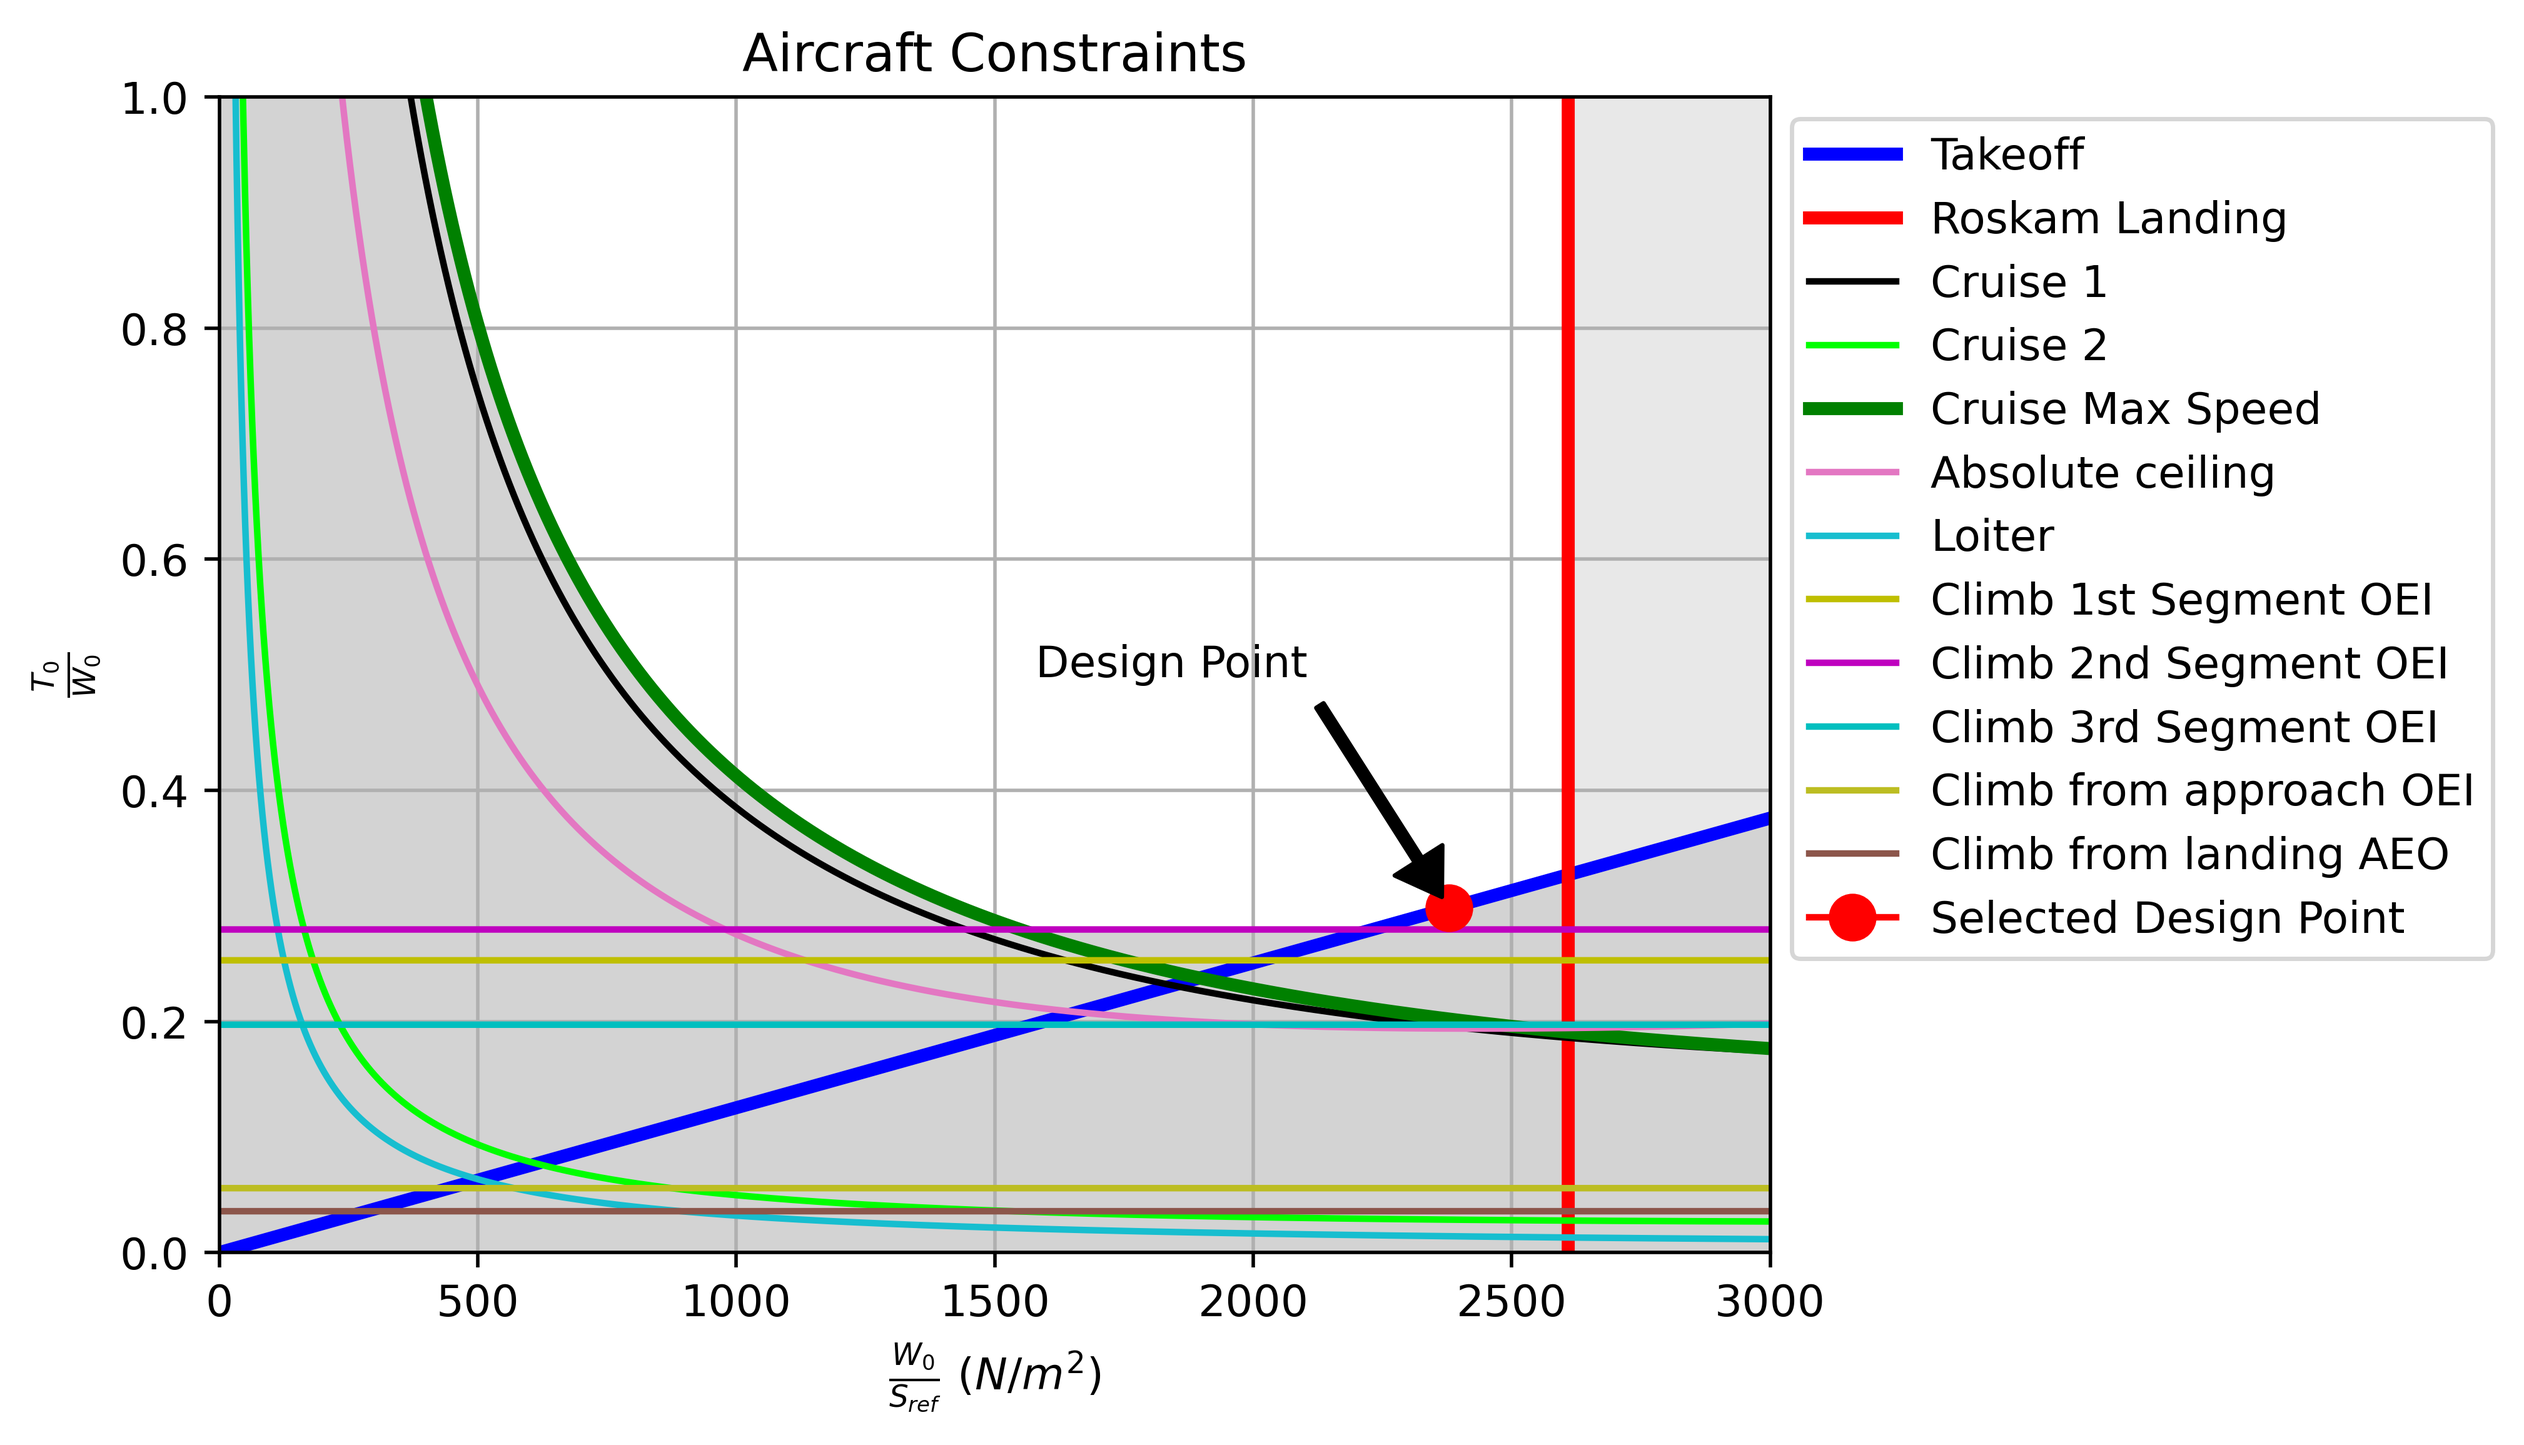
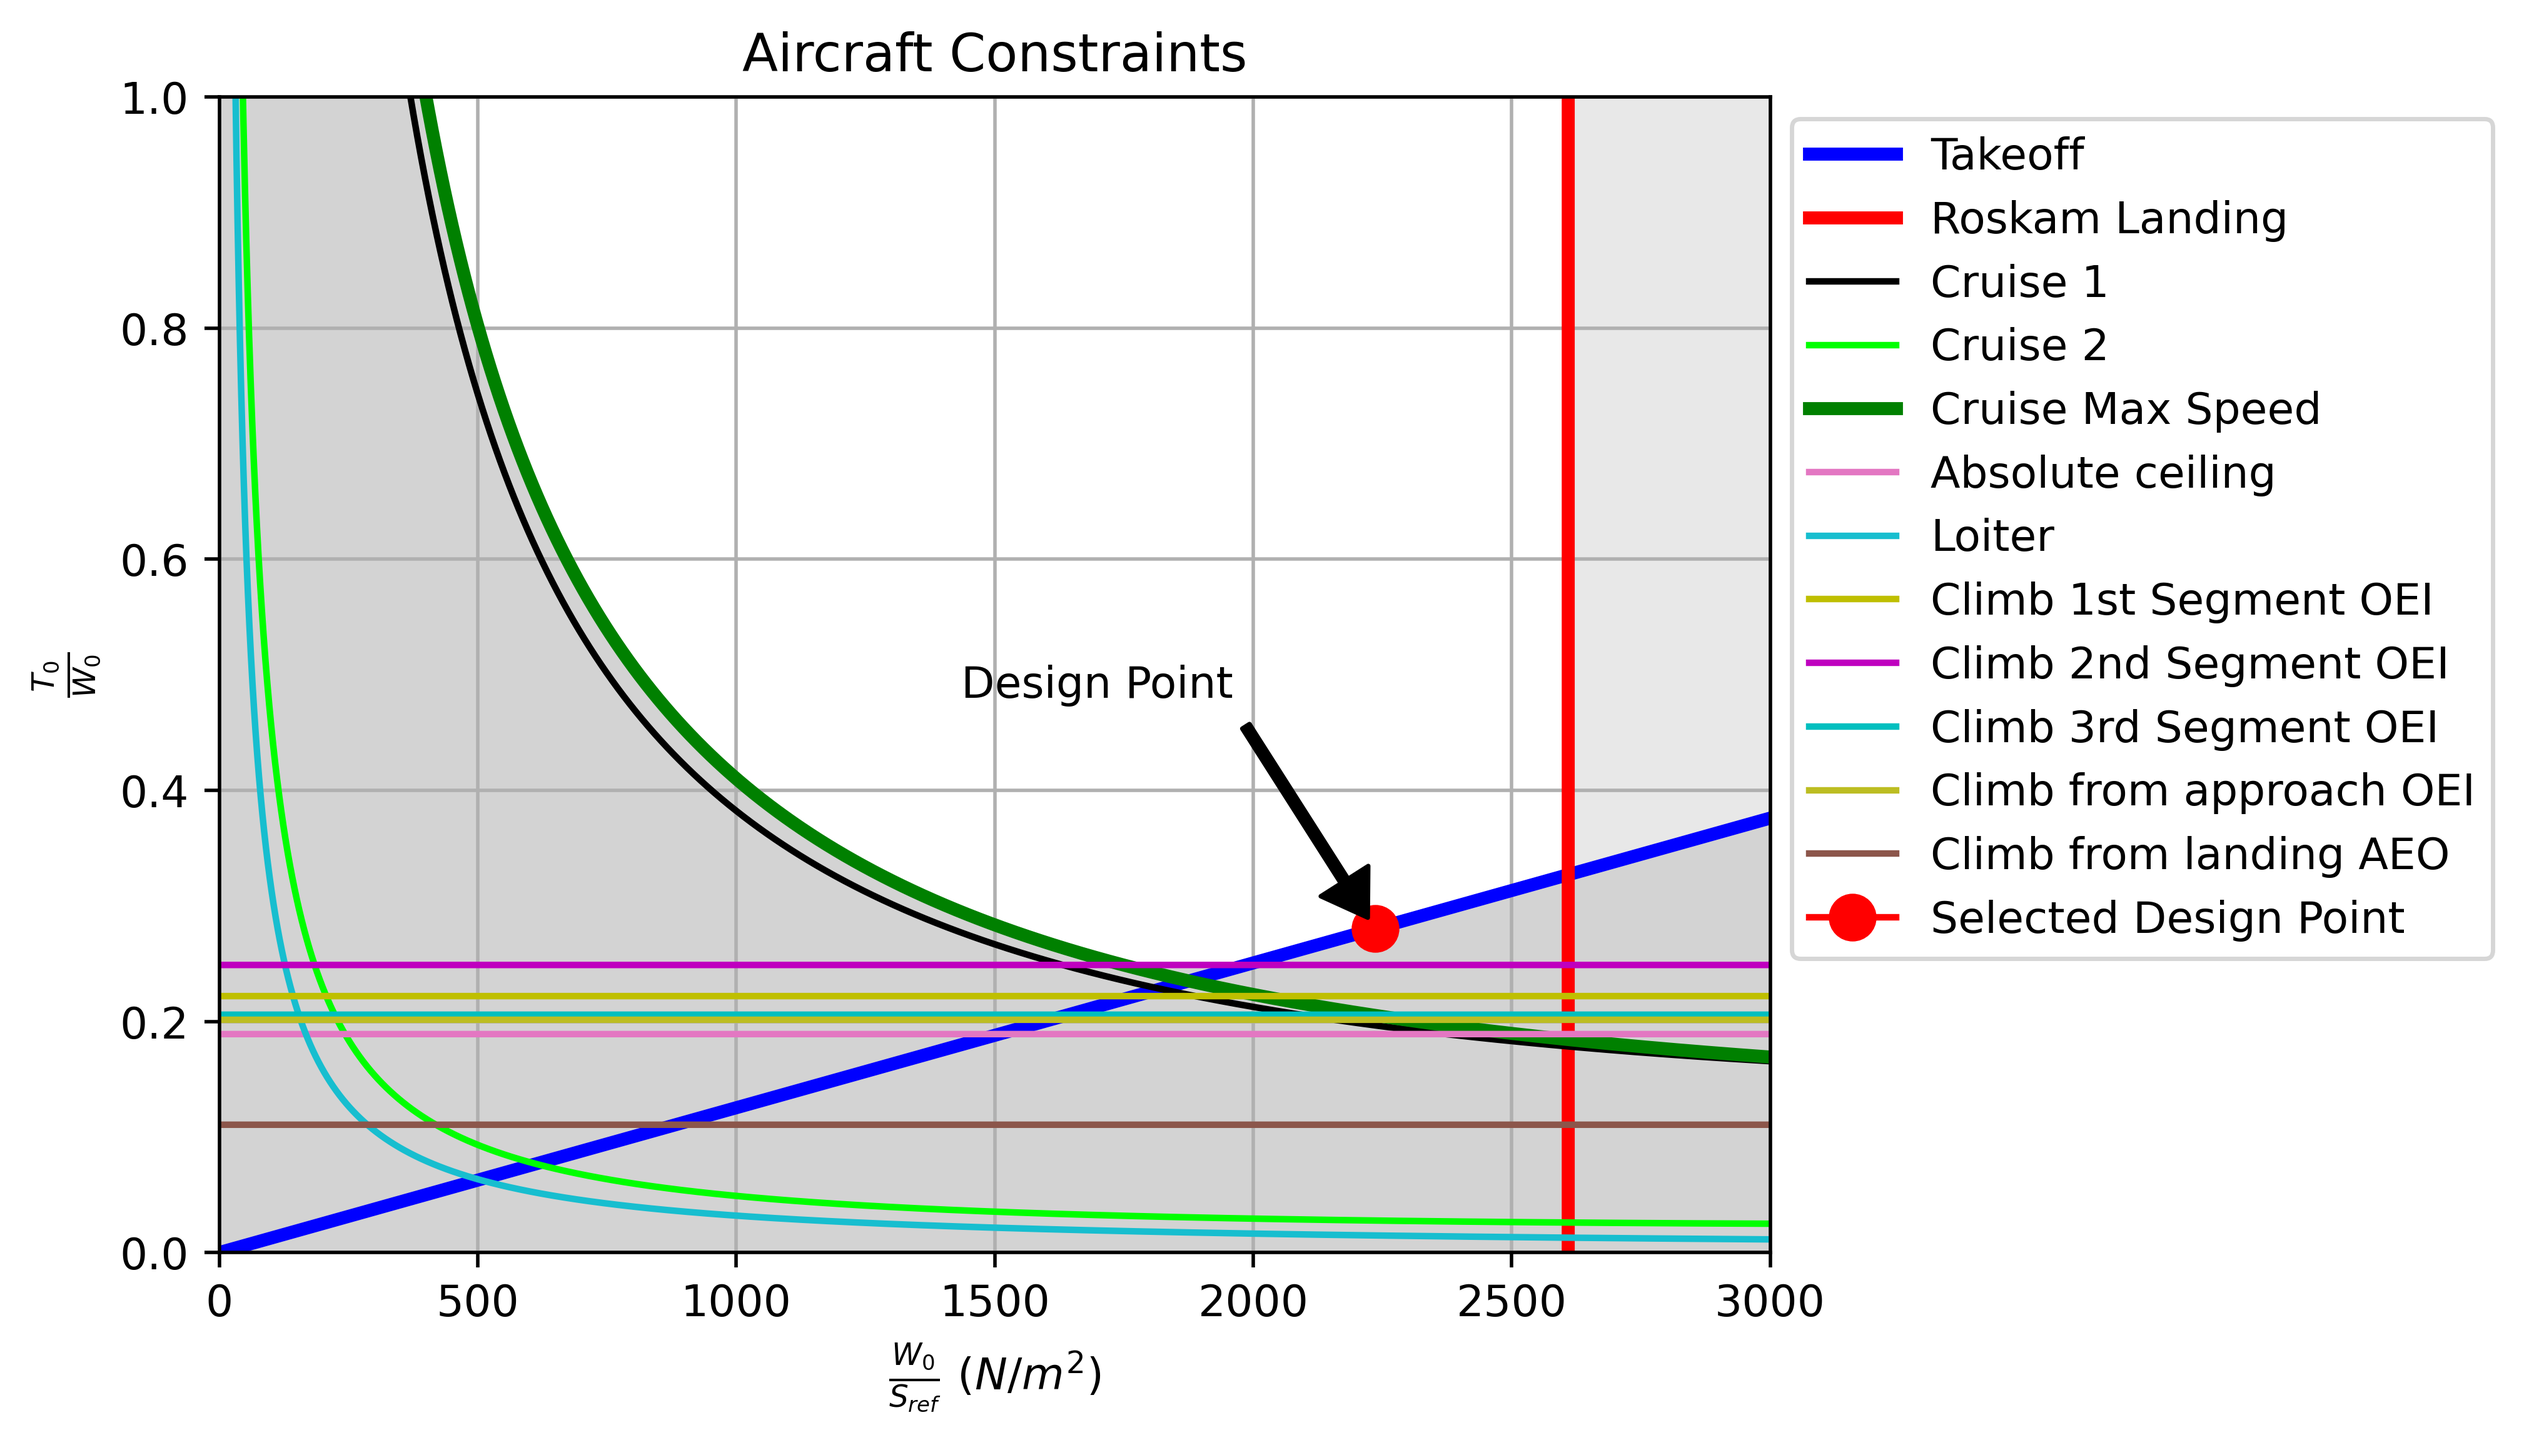
Update

diff --git a/pyavd/libraries/Classes/Constraints.py b/pyavd/libraries/Classes/Constraints.py
@@ -126,6 +126,7 @@ class Constraints(Config, Optimiser):
         constraint.Cd0_takeoff = constraint.Cd0 + dCd0
         constraint.e_takeoff = constraint.e - pe
         Cl = constraint.Cl_max*(constraint.V_stall/V_inf)**2
+        Cl = constraint.Cl_max
 
         LD = Cl/(constraint.Cd0_takeoff + ((Cl)**2)/(np.pi*constraint.aspect_ratio*constraint.e))
         TW = (1/LD) + climb_gradient/100
@@ -144,6 +145,7 @@ class Constraints(Config, Optimiser):
         constraint.Cd0_goaround = constraint.Cd0 + dCd0
         constraint.e_goaround = constraint.e - pe
         Cl = constraint.Cl_max*(constraint.V_stall/V_inf)**2
+        Cl = constraint.Cl_max
 
         LD = Cl/(constraint.Cd0_takeoff + ((Cl)**2)/(np.pi*constraint.aspect_ratio*constraint.e))
         TW = ((1/LD) + climb_gradient/100)*alpha
